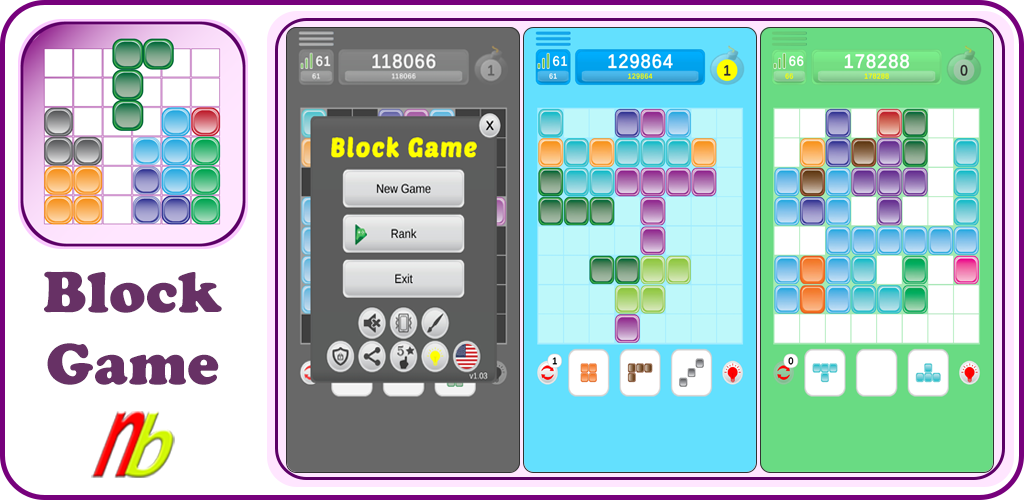
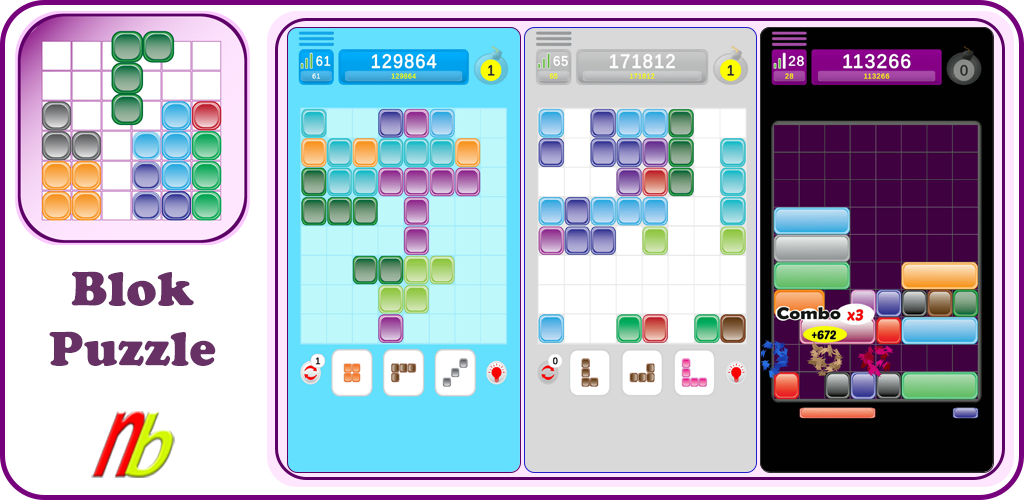
Signed-off-by: softnb <andsoftnb@gmail.com>

diff --git a/NBBlock/indexTr.html b/NBBlock/indexTr.html
@@ -37,58 +37,41 @@
 				</tr>
 				<tr>
 					<td align="center">
-			<img border="0" src="images/00_Tr.jpg" width="250" height="416"></td>
+			<img border="0" src="images/00.png" width="250" height="444"></td>
 					<td align="center">
-			<img border="0" src="images/02.jpg" width="250" height="416"></td>
+			<img border="0" src="images/02.jpg" width="250" height="444"></td>
 					<td align="center">
-			<img border="0" src="images/03.jpg" width="250" height="416"></td>
+			<img border="0" src="images/09.jpg" width="250" height="444"></td>
 					<td align="center">
-			<img border="0" src="images/04.jpg" width="250" height="416"></td>
+			<img border="0" src="images/03.jpg" width="250" height="444"></td>
 				</tr>
 				<tr>
 					<td align="center">
-			<img border="0" src="images/05_Tr.jpg" width="250" height="416"></td>
+			<img border="0" src="images/04.jpg" width="250" height="444"></td>
 					<td align="center">
-			<img border="0" src="images/06.jpg" width="250" height="416"></td>
+			<img border="0" src="images/07.jpg" width="250" height="444"></td>
 					<td align="center">
-			<img border="0" src="images/07.jpg" width="250" height="416"></td>
+			<img border="0" src="images/10.jpg" width="250" height="444"></td>
 					<td align="center">
-			<img border="0" src="images/08.jpg" width="250" height="416"></td>
+			<img border="0" src="images/11.jpg" width="250" height="444"></td>
 				</tr>
 				<tr>
 					<td align="center" colspan="4">
 			<table border="0" width="98%">
 				<tr>
 					<td><br>
-			NB Blok Puzle oyunu, Tetris benzeri klasik basit küp blok 
-			yerleştirme uygulamasıdır. Türkçe ve İngilizce desteği vardır. Cep 
-			telefonu ve tabletlere göre tasarlanmıştır. <br>
-			<br>
-			Blokları, sürükleyip boş alanlara bırakın. Sonraki blok için boşluk 
-			ayırın, satır ve sütunları topluca patlatın. Planlı bir yerleştirme 
-			, 6&#39;lı kombo imkanı verir. Böylece yüksek puan kazanırsınız.<br>
-			<br>
-			Nesnelerden bazıları döndürülebilir. Ayrıca yerleştirme alanındaki 
-			bloklar mıktatısla aşağıya indirilebilir. Döndürme ve mıknatıs için 
-			jetona gerekir. 3x ve üzeri Kombo yaparak ve reklamları izleyerek 
-			jeton kazanabilirsiniz.<br>
-			<br>
-			Uygulama, oyunu kaydetme özelliği ile ilerlemenizi cihazınıza 
-			otomatik kayıt eder ve daha sonra kaldığınız yerden devam 
-			edebilirsiniz.<br>
-			<br>
-			Reklamsız oyun isteyen kullanıcılar interneti kapatarak oyunu 
-			internetsiz oynayabilirler Ancak unutmayınız; internetsiz kullanımda 
-			reklam izlenmediği için döndürme ve mıknatıs jetonları kazanılamaz. 
-			Uygulama ücresiz ancak reklam tabanlıdır. Tercih size kalmıştır.<br>
-			<br>
-			Boş vakitlerinizde , NB Blok Puzle oynayın, küpleri uygun 
-			yerleştirme alanı içine bırakın patlatın. Eğlenerek zihninizi 
-			rahatlatın.<br>
-			<br>
-			Tetris seviyorsanız klasik blok puzle oyunu tam size göredir. 
-			Mutlaka denemelisiniz. Türkçe destekli diğer zeka ve bulmaca 
-			uygulamlarımıza geliştirici sayfamızdan ulaşabilirsiniz.<br>
+					Bağımlılık yapan Tetris benzeri, klasik blok bulmaca 
+					oyunları. <br>
+					<br>
+					Blok oyunu: Blokları boş alana sürükleyip bırakın, 
+					satırlarda ve sütunlarda birleştirin. Dolu satırları ve 
+					sütunları patlatın ve puan kazanın.<br>
+					<br>
+					Blok Kaydırma: Blokları kaydırın ve satırlarda birleştirin, 
+					ardından dolu satırları patlatın.<br>
+					<br>
+					Blok bulmaca oyunları eğlenceli bir oyun deneyimi sunar. 
+					Mantıksal becerilerinizi geliştirir ve beyninizi eğitir.<br>
 			<br>
 			Fikirleriniz, sorularınız ve öneriniz değerlidir. Paylaşım için
 			<a href="mailto:nbardakci1975@gmail.com">nbardakci1975@gmail.com</a> adresine e-posta gönderiniz.</td>

diff --git a/NBBlock/index.html b/NBBlock/index.html
@@ -37,58 +37,41 @@
 				</tr>
 				<tr>
 					<td align="center">
-			<img border="0" src="images/00_Eng.jpg" width="250" height="416"></td>
+			<img border="0" src="images/00.png" width="250" height="444"></td>
 					<td align="center">
-			<img border="0" src="images/02.jpg" width="250" height="416"></td>
+			<img border="0" src="images/02.jpg" width="250" height="444"></td>
 					<td align="center">
-			<img border="0" src="images/03.jpg" width="250" height="416"></td>
+			<img border="0" src="images/09.jpg" width="250" height="444"></td>
 					<td align="center">
-			<img border="0" src="images/04.jpg" width="250" height="416"></td>
+			<img border="0" src="images/03.jpg" width="250" height="444"></td>
 				</tr>
 				<tr>
 					<td align="center">
-			<img border="0" src="images/05_Eng.jpg" width="250" height="416"></td>
+			<img border="0" src="images/04.jpg" width="250" height="444"></td>
 					<td align="center">
-			<img border="0" src="images/06.jpg" width="250" height="416"></td>
+			<img border="0" src="images/07.jpg" width="250" height="444"></td>
 					<td align="center">
-			<img border="0" src="images/07.jpg" width="250" height="416"></td>
+			<img border="0" src="images/10.jpg" width="250" height="444"></td>
 					<td align="center">
-			<img border="0" src="images/08.jpg" width="250" height="416"></td>
+			<img border="0" src="images/11.jpg" width="250" height="444"></td>
 				</tr>
 				<tr>
 					<td align="center" colspan="4">
 			<table border="0" width="98%">
 				<tr>
 					<td><br>
-			NB Block Puzzle is a Tetris like, classic cube block game, on the 
-			English language. It designed for mobile phone and tablets.<br>
-			<br>
-			Drag and drop blocks into empty areas. Reserve the spaces for the 
-			next block, explode the rows and columns together. A planned 
-			placement gives the possibility of 6 combos. So you get high score.<br>
-			<br>
-			Also some of the cube blocks can be rotatable. If you have the 
-			coins, you can rotate or pull the cube blocks to down with the 
-			rotate and magnet buttons. So you can easily place them into the 
-			gaps. You can get coins by making 3x combos or watching ads. <br>
-			<br>
-			The application automatically saves your progress to your device 
-			with the save game feature and you can continue from where you left 
-			off later.<br>
-			<br>
-			The players who want ad-free games can play the game without 
-			internet by turning off the internet. But do not forget; Rotate and 
-			magnet coins cannot be earned because no ads are watched in offline 
-			use. The app is free but ad-based. The choice is up to you.<br>
-			<br>
-			In your spare time, play NB Block Puzzle, drop the cubes into the 
-			appropriate placement area and explode them. Relax your mind by 
-			having fun.<br>
-			<br>
-			If you like Tetris, this classic block puzzle game is for you. You 
-			should definitely try it. You can reach our other intelligence and 
-			puzzle games applications supported in Turkish on our developer 
-			page.<br>
+					Addictive Tetris-like, classic block puzzle games. <br>
+					<br>
+					Block game: Drag and drop the blocks into the empty area, 
+					merge them on the rows and columns. Explode filled rows and 
+					columns and get points.<br>
+					<br>
+					Slide Block: Slide the blocks and merge them on the rows 
+					then explode filled rows.<br>
+					<br>
+					This block puzzle game provides an enjoyable gaming 
+					experience. It improves your logical skills and trains your 
+					brain.<br>
 			<br>
 			Your ideas, questions and suggestions are valuable. For sharing, 
 			send an e-mail to <a href="mailto:nbardakci1975@gmail.com">nbardakci1975@gmail.com</a> 
